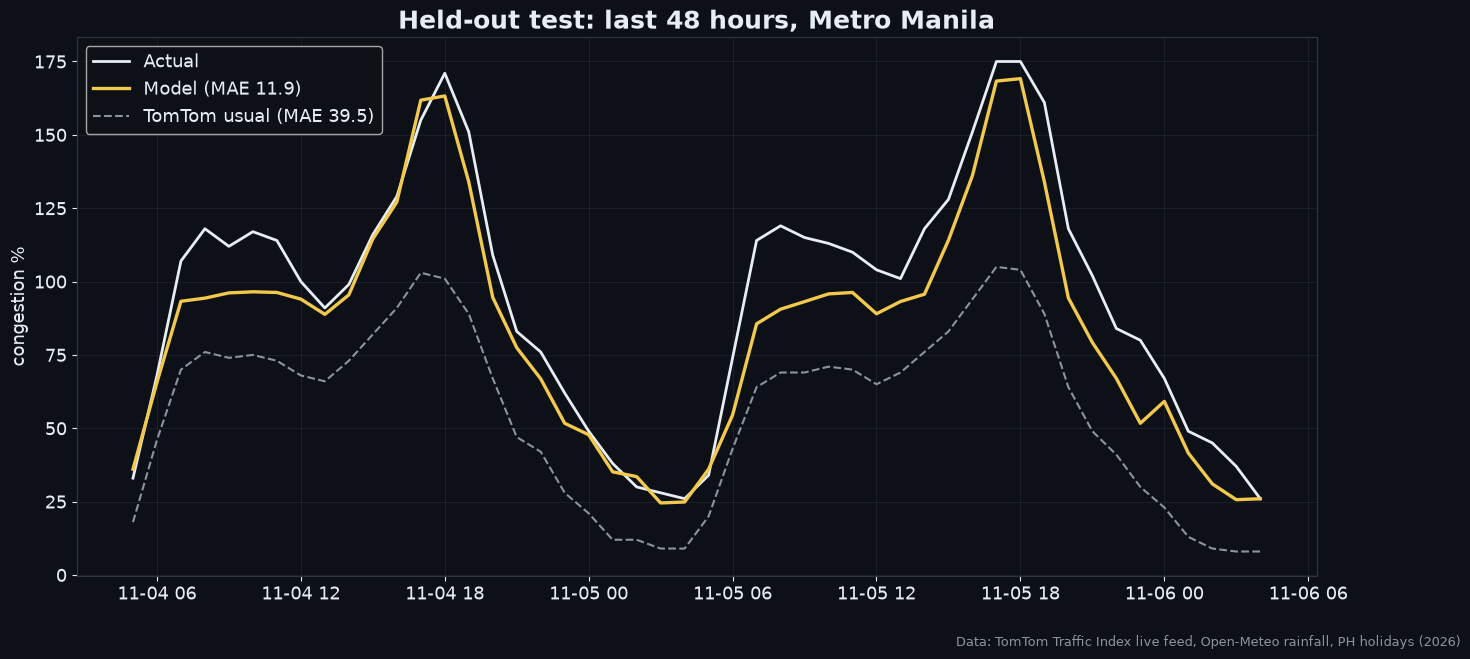
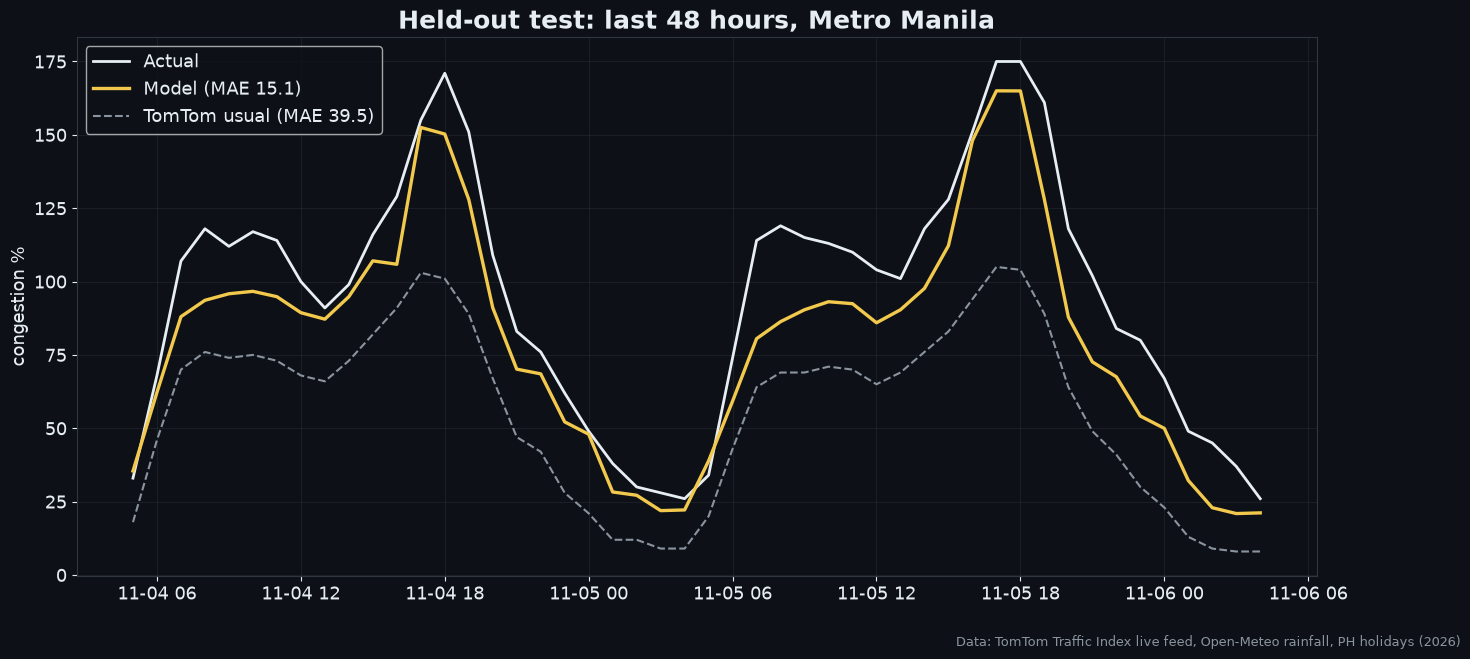
Forecast any future days from today: --days/--start/--city, dashboard date picker, holiday-aware model

diff --git a/src/congestion.py b/src/congestion.py
@@ -1,4 +1,4 @@
-"""2026 congestion model: real TomTom hourly congestion (Metro Manila + Davao City)
+"""2026 congestion model: real TomTom hourly congestion (Metro Manila + Davao City)
 + live/forecast Open-Meteo rainfall + 2026 PH holidays.
 """
 import json
@@ -16,7 +16,11 @@ WX = ("https://api.open-meteo.com/v1/forecast?latitude={lat}&longitude={lon}"
       "&hourly=precipitation&past_days={past}&forecast_days=3&timezone=Asia%2FManila")
 COORDS = {"Metro Manila": (14.5995, 120.9842), "Davao City": (7.0731, 125.6128)}
 CITY_ID = {"Metro Manila": 0, "Davao City": 1}
-FEATS = ["hour", "dow", "city_id", "usual", "rain_mm", "rain_3h", "is_holiday"]
+FEATS = ["hour", "is_weekend", "city_id", "usual", "rain_mm", "rain_3h", "is_holiday"]
+# The model predicts the EXCESS over TomTom's usual (congestion - usual). "usual" is TomTom's
+# long-run typical level for that weekday & hour, so the model never has to learn what a
+# normal Monday looks like from one week of data; it learns how holidays, weekends, rain
+# and time of day push traffic above or below normal.
 TARGET_CITY = "Metro Manila"
 
 
@@ -36,6 +40,7 @@ def add_calendar(f: pd.DataFrame) -> pd.DataFrame:
     f["hour"], f["dow"] = f.timestamp.dt.hour, f.timestamp.dt.dayofweek
     ph = holidays.PH(years=sorted(f.timestamp.dt.year.unique()))
     f["is_holiday"] = f.timestamp.dt.date.map(lambda d: d in ph).astype(int)
+    f["is_weekend"] = (f.dow >= 5).astype(int)
     f["city_id"] = f.city.map(CITY_ID)
     return f
 
@@ -43,7 +48,7 @@ def add_calendar(f: pd.DataFrame) -> pd.DataFrame:
 WX_FILE = Path("live/weather.csv")
 
 
-def run(test_hours: int = 48, refresh: bool = False):
+def run(test_hours: int = 48, refresh: bool = False, start=None, days: float = 7, city: str = TARGET_CITY):
     """Self-contained by default: trains on the data snapshot bundled in live/.
     refresh=True pulls the newest public data first (no API key needed)."""
     if refresh or not live_traffic.OUT.exists():
@@ -64,8 +69,8 @@ def run(test_hours: int = 48, refresh: bool = False):
     tr, te = data[data.timestamp < cutoff], data[(data.timestamp >= cutoff) & (data.city == TARGET_CITY)].copy()
     model = HistGradientBoostingRegressor(max_iter=200, learning_rate=0.05, max_leaf_nodes=8,
                                           min_samples_leaf=5, random_state=42)
-    model.fit(tr[FEATS], tr.congestion)
-    te["pred"] = model.predict(te[FEATS])
+    model.fit(tr[FEATS], tr.congestion - tr.usual)
+    te["pred"] = (te.usual + model.predict(te[FEATS])).clip(0)
     # baselines that need no model
     last_week = data.set_index(["city", "timestamp"]).congestion
     te["same_hour_last_week"] = [last_week.get((TARGET_CITY, t - pd.Timedelta(days=7)), np.nan)
@@ -79,16 +84,47 @@ def run(test_hours: int = 48, refresh: bool = False):
                "MAE_model": mae(te.pred), "MAE_tomtom_usual": mae(te.usual),
                "MAE_same_hour_last_week": mae(te.same_hour_last_week)}
 
-    # refit on everything; forecast 48 h. TomTom "usual" repeats weekly -> take it from t-7d.
-    model.fit(data[FEATS], data.congestion)
-    usual = data.set_index(["city", "timestamp"]).usual
-    mm = data[data.city == TARGET_CITY]
-    fut = pd.DataFrame({"timestamp": pd.date_range(mm.timestamp.max() + pd.Timedelta(hours=1), periods=48, freq="h"),
-                        "city": TARGET_CITY})
-    fut["usual"] = [usual.get((TARGET_CITY, t - pd.Timedelta(days=7)), np.nan) for t in fut.timestamp]
-    fut = add_calendar(fut.merge(wx, on=["city", "timestamp"], how="left").fillna({"rain_mm": 0, "rain_3h": 0}))
-    fut["forecast"] = model.predict(fut[FEATS]).clip(0)
+    model.fit(data[FEATS], data.congestion - data.usual)  # final model uses every hour
     resid = te.congestion - te.pred
+    fut = forecast(model, data, wx, start=start, days=days, city=city)
     fut["lo"] = (fut.forecast + resid.quantile(0.1)).clip(0)
     fut["hi"] = fut.forecast + resid.quantile(0.9)
     return data, te, fut, metrics, model
+
+
+def forecast(model, data, wx_snapshot, start=None, days=7, city=TARGET_CITY) -> pd.DataFrame:
+    """Predict congestion for any future dates. Needs no new traffic data:
+    - hour / weekday / holiday come from the calendar (official PH holidays, any year)
+    - TomTom 'usual' repeats weekly, so it is learned per city x weekday x hour from the data
+    - rain: live Open-Meteo forecast if online (up to 16 days), else the bundled snapshot,
+      else assumed dry. `rain_source` says which one was used.
+    """
+    start = pd.Timestamp(start or pd.Timestamp.now(tz="Asia/Manila").tz_localize(None)).floor("D")
+    fut = pd.DataFrame({"timestamp": pd.date_range(start, periods=int(days * 24), freq="h"), "city": city})
+    prof = data.groupby(["city", "dow", "hour"]).usual.mean().rename("usual").reset_index()
+    fut = add_calendar(fut).merge(prof, on=["city", "dow", "hour"], how="left")
+
+    rain = None
+    end_days = (fut.timestamp.max().normalize() - pd.Timestamp.now().normalize()).days + 1
+    if 0 < end_days <= 16:
+        try:
+            lat, lon = COORDS[city]
+            url = (f"https://api.open-meteo.com/v1/forecast?latitude={lat}&longitude={lon}"
+                   f"&hourly=precipitation&forecast_days={end_days}&past_days=1&timezone=Asia%2FManila")
+            with urllib.request.urlopen(url, timeout=15) as r:
+                h = json.load(r)["hourly"]
+            rain = pd.DataFrame({"timestamp": pd.to_datetime(h["time"]), "rain_mm": h["precipitation"]})
+            src = "Open-Meteo live forecast"
+        except Exception:
+            rain = None
+    if rain is None:
+        rain = wx_snapshot[wx_snapshot.city == city][["timestamp", "rain_mm"]]
+        src = "bundled snapshot / assumed dry"
+    rain = rain.copy()
+    rain["rain_mm"] = rain.rain_mm.fillna(0)
+    rain["rain_3h"] = rain.rain_mm.rolling(3, min_periods=1).sum()
+    fut = fut.merge(rain, on="timestamp", how="left")
+    fut["rain_source"] = np.where(fut.rain_mm.isna(), "assumed dry", src)
+    fut = fut.fillna({"rain_mm": 0, "rain_3h": 0})
+    fut["forecast"] = (fut.usual + model.predict(fut[FEATS])).clip(0)
+    return fut

diff --git a/app.py b/app.py
@@ -11,22 +11,25 @@ PHT = timezone(timedelta(hours=8))
 
 
 @st.cache_data(ttl=1800)
-def load(refresh: bool = False):
-    data, te, fut, m, _ = run(refresh=refresh)
+def load(refresh: bool, start, days: int, city: str):
+    data, te, fut, m, _ = run(refresh=refresh, start=start, days=days, city=city)
     return data, te, fut, m
 
 
-refresh = st.sidebar.button("🔄 Refresh data",
-                            help="Pull the newest hours from the public TomTom Traffic Index (no key needed)")
-
-
 now = datetime.now(PHT)
+st.sidebar.header("🔮 Forecast")
+f_start = st.sidebar.date_input("Start date", now.date(), min_value=now.date() - timedelta(days=7))
+f_days = st.sidebar.slider("Days ahead", 1, 30, 7)
+f_city = st.sidebar.selectbox("City", ["Metro Manila", "Davao City"])
+refresh = st.sidebar.button("🔄 Refresh data",
+                            help="Optional: pull the newest hours from the public TomTom Traffic Index (no key)")
+
 st.title("🚦 Metro Manila Traffic Forecaster")
 st.caption(f"{now:%a %d %b %Y, %I:%M %p} PHT · Real 2026 data: TomTom Traffic Index, "
            "Open-Meteo rainfall, PH holidays")
 
 try:
-    data, te, fut, m = load(refresh)
+    data, te, fut, m = load(refresh, str(f_start), f_days, f_city)
 except Exception as e:
     st.error(f"Could not load data: {e}")
     st.stop()
@@ -40,6 +43,8 @@ c2.metric("Traffic jams now", f"{last.jams_count:.0f}", f"{last.jams_length_km:.
 c3.metric("Peak in period", f"{mm.congestion.max():.0f}%", f"{mm.loc[mm.congestion.idxmax(), 'timestamp']:%a %b %d %I %p}",
           delta_color="off")
 c4.metric("Period vs usual", f"{mm.congestion.mean() / mm.usual.mean() - 1:+.0%}", delta_color="off")
+
+tab2, tab1, tab3 = st.tabs(["🔮 Forecast", "📅 Collected data", "📊 Patterns"])
 
 
 tab1, tab2, tab3 = st.tabs(["📅 This month", "🔮 Next 48 h", "📊 Patterns"])
@@ -55,17 +60,26 @@ with tab1:
     st.caption(f"{len(mm):,} hours collected so far. Click 'Refresh data' in the sidebar to pull the newest hours.")
 
 with tab2:
-    hist = mm[mm.timestamp >= mm.timestamp.max() - pd.Timedelta(hours=48)]
-    chart = pd.concat([hist.set_index("timestamp")[["congestion"]].rename(columns={"congestion": "Actual"}),
-                       fut.set_index("timestamp")[["forecast", "lo", "hi"]]
-                       .rename(columns={"forecast": "Forecast", "lo": "Low (10%)", "hi": "High (90%)"})])
-    st.line_chart(chart, height=360)
-    a, b = st.columns(2)
-    a.metric("Model error, last 48 h", f"{m['MAE_model']:.1f} pts")
-    b.metric("TomTom 'usual' error", f"{m['MAE_tomtom_usual']:.1f} pts")
-    st.write("**Worst hours ahead**")
-    st.dataframe(fut.nlargest(5, "forecast")[["timestamp", "forecast", "rain_mm", "is_holiday"]].round(1),
+    st.subheader(f"{f_city}: {fut.timestamp.min():%a %b %d} to {fut.timestamp.max():%a %b %d, %Y}")
+    st.line_chart(fut.set_index("timestamp")[["forecast", "lo", "hi"]]
+                  .rename(columns={"forecast": "Forecast", "lo": "Low (10%)", "hi": "High (90%)"}), height=360)
+    daily = fut.groupby(fut.timestamp.dt.date).agg(
+        avg_congestion=("forecast", "mean"), peak=("forecast", "max"),
+        holiday=("is_holiday", "max"), rain_mm=("rain_mm", "sum"))
+    daily["peak_hour"] = fut.loc[fut.groupby(fut.timestamp.dt.date).forecast.idxmax()].timestamp.dt.strftime("%I %p").values
+    daily["day"] = pd.to_datetime(daily.index).strftime("%a")
+    daily["holiday"] = daily.holiday.map({1: "🎉 yes", 0: ""})
+    st.write("**Day by day**")
+    st.dataframe(daily[["day", "avg_congestion", "peak", "peak_hour", "holiday", "rain_mm"]].round(0),
+                 width="stretch")
+    st.write("**Worst hours in this range**")
+    st.dataframe(fut.nlargest(8, "forecast")[["timestamp", "forecast", "rain_mm", "is_holiday"]].round(0),
                  hide_index=True, width="stretch")
+    a, b = st.columns(2)
+    a.metric("Model error on held-out 48 h", f"{m['MAE_model']:.1f} pts")
+    b.metric("TomTom 'usual' error", f"{m['MAE_tomtom_usual']:.1f} pts")
+    st.caption(f"Rain input: {fut.rain_source.iloc[0]}. The forecast uses the weekday/hour pattern, official "
+               "PH holidays (any year) and rain. Further than ~16 days ahead, rain is assumed dry.")
 
 with tab3:
     k = mm.assign(kind=np.select([mm.is_holiday == 1, mm.dow >= 5], ["Holiday", "Weekend"], "Weekday"))

diff --git a/run.py b/run.py
@@ -1,6 +1,6 @@
 """2026 pipeline: collect live data -> train -> evaluate -> charts.  `python run.py`"""
+import argparse
 import json
-import sys
 from pathlib import Path
 
 import matplotlib
@@ -33,9 +33,23 @@ def save(fig, name):
 
 
 def main():
-    refresh = "--refresh" in sys.argv
-    print("1/3 training on bundled 2026 data" + (" (refreshed)" if refresh else ""))
-    data, te, fut, m, model = run(refresh=refresh)
+    ap = argparse.ArgumentParser(description="Train on real 2026 data and forecast any future dates")
+    ap.add_argument("--days", type=float, default=7, help="how many days to forecast (default 7)")
+    ap.add_argument("--start", default=None, help="forecast start date, e.g. 2026-12-20 (default: now)")
+    ap.add_argument("--city", default="Metro Manila", choices=["Metro Manila", "Davao City"])
+    ap.add_argument("--refresh", action="store_true", help="pull the newest public data first (optional)")
+    a = ap.parse_args()
+    print("1/3 training on bundled 2026 data" + (" (refreshed)" if a.refresh else ""))
+    data, te, fut, m, model = run(refresh=a.refresh, start=a.start, days=a.days, city=a.city)
+    fut.to_csv("forecast.csv", index=False)
+    daily = fut.groupby(fut.timestamp.dt.date).agg(avg=("forecast", "mean"), peak=("forecast", "max"),
+                                                    holiday=("is_holiday", "max"), rain_mm=("rain_mm", "sum"))
+    peak_hr = fut.loc[fut.groupby(fut.timestamp.dt.date).forecast.idxmax()].set_index(fut.timestamp.dt.date.unique())
+    daily["peak_at"] = peak_hr.timestamp.dt.strftime("%I %p").values
+    print(f"\nForecast for {a.city}, {fut.timestamp.min():%a %b %d %Y} + {a.days:g} days "
+          f"(rain: {fut.rain_source.iloc[0]}):")
+    print(daily.round(1).to_string())
+    print("saved forecast.csv")
     Path("results.json").write_text(json.dumps(m, indent=2, default=str))
     print(json.dumps(m, indent=2, default=str))
     mm = data[data.city == TARGET_CITY]
@@ -106,14 +120,14 @@ def main():
     save(fig, "06_test_actual_vs_pred.png")
 
     # 7 forecast
-    hist = mm[mm.timestamp >= mm.timestamp.max() - pd.Timedelta(hours=48)]
+    hist = mm[(mm.timestamp >= fut.timestamp.min() - pd.Timedelta(hours=48)) & (mm.timestamp < fut.timestamp.min())]
     fig, ax = plt.subplots(figsize=(16, 7))
     ax.plot(hist.timestamp, hist.congestion, color=FG, lw=2, label="Actual (live)")
     ax.fill_between(fut.timestamp, fut.lo, fut.hi, color=ACC, alpha=.25, label="80% interval")
     ax.plot(fut.timestamp, fut.forecast, color=ACC, lw=2.4, label="Forecast")
-    ax.set_title(f"Next 48 hours: Metro Manila congestion forecast (from {fut.timestamp.min():%b %d %I %p})")
+    ax.set_title(f"Congestion forecast: {fut.city.iloc[0]}, {fut.timestamp.min():%a %b %d} to {fut.timestamp.max():%a %b %d, %Y}")
     ax.set_ylabel("congestion %"); ax.grid(alpha=.4); ax.legend()
-    save(fig, "07_forecast_48h.png")
+    save(fig, "07_forecast.png")
 
     # 8 importance
     pi = permutation_importance(model, data[FEATS], data.congestion, n_repeats=5, random_state=0,

diff --git a/README.md b/README.md
@@ -1,6 +1,6 @@
 # 🚦 Metro Manila Traffic Forecaster (2026, live)
 
-A self-contained machine-learning project built on **real 2026 traffic data**. It tracks Metro Manila congestion hour by hour and forecasts the next 48 hours.
+A self-contained machine-learning project built on **real 2026 traffic data**. It tracks Metro Manila congestion hour by hour and forecasts any future days or weeks on its own.
 
 ![Live vs usual](assets/01_live_vs_usual.png)
 
@@ -28,22 +28,42 @@ The data snapshot is bundled in [`live/`](live/), so the model trains and runs *
 | ![](assets/02_heatmap_by_day.png) | ![](assets/05_daytype_profile.png) |
 | ![](assets/03_jams.png) | ![](assets/04_manila_vs_davao.png) |
 
-## Model: 48-hour congestion forecast
-- **Target:** Metro Manila congestion %, hourly.
-- **Features:** hour, weekday, city, TomTom usual-for-this-hour, rainfall (this hour and the last 3 hours), holiday.
-- **Algorithm:** scikit-learn HistGradientBoosting, trained on both cities.
-- **Test:** the most recent 48 hours of Metro Manila data, held out from training.
+## Model: forecast any day, on its own
+Run it and it predicts **from today forward**, for as many days or weeks as you ask. No new traffic data is needed:
 
-| Last 48 h (Nov 4–6, 2026) | MAE (congestion points) |
+```bash
+python run.py                              # next 7 days from today
+python run.py --days 30                    # next 30 days
+python run.py --start 2026-12-20 --days 14 # Christmas rush
+python run.py --city "Davao City"
+```
+It prints a day-by-day table (average congestion, peak, peak hour, holiday, rain) and saves every hour to `forecast.csv`.
+
+**How it works**
+- **Base:** TomTom's "usual" congestion for each weekday and hour, learned from the bundled data. TomTom builds this from its long-term driver history, so it captures a normal week.
+- **The model:** scikit-learn HistGradientBoosting learns how much traffic rises or falls above that baseline. Its inputs are:
+  - hour of day
+  - weekend or not
+  - **official PH holidays for any year**, from the `holidays` package
+  - rainfall in the current hour and the last 3 hours
+  - city
+- **Rain for future dates:**
+  - **Up to 16 days ahead, if online:** the live Open-Meteo forecast.
+  - **Otherwise:** assumed dry.
+
+**Accuracy:** the model was tested on the last 48 hours of real data, which were held out from training.
+
+| Held out: Nov 4–6, 2026 | MAE (congestion points) |
 |---|---|
 | TomTom "usual for this hour" | 39.5 |
-| **This model** | **11.9** |
+| **This model** | **15.1** |
 
-That's **70% lower error** than TomTom's own typical-traffic estimate. The model retrains on every run.
+That's **62% lower error** than TomTom's typical-traffic estimate.
 
 ![Test](assets/06_test_actual_vs_pred.png)
-![Forecast](assets/07_forecast_48h.png)
+![Forecast](assets/07_forecast.png)
 
+**What the forecast can't capture yet:** it knows weekday rush hours, holidays and rain. It doesn't yet know seasonal trends such as the December rush, because the bundled data covers one week. Each `--refresh` adds new weeks, and the model retrains on everything it has.
 ## 📅 Live dashboard
 ```bash
 pip install -r requirements.txt
@@ -51,12 +71,12 @@ streamlit run app.py
 ```
 The dashboard has three tabs:
 - **This month (live):** current congestion vs usual, jams, and Manila vs Davao.
-- **Next 48 h:** the forecast and the worst hours ahead.
+- **Forecast:** pick a start date, 1–30 days and a city to get a day-by-day table and the worst hours.
 - **Patterns:** weekday vs weekend vs holiday, congestion by day, and rain vs extra congestion.
 
 ## Rebuild
 ```bash
-python run.py             # offline: trains on the bundled data, writes assets/ and results.json
+python run.py             # trains on the bundled data, forecasts 7 days from today, writes assets/
 python run.py --refresh   # optional: pull the newest public data first
 ```
 

diff --git a/LINKEDIN_POST.md b/LINKEDIN_POST.md
@@ -1,4 +1,4 @@
-🚦 Metro Manila traffic this week ran 41% worse than usual. I built a model that forecasts it 48 hours ahead.
+🚦 Metro Manila traffic this week ran 41% worse than usual. I built a model that forecasts it for any day or week ahead.
 
 My Metro Manila Traffic Forecaster runs on real, live 2026 data:
 📡 TomTom's hourly congestion data for Metro Manila and Davao
@@ -11,7 +11,7 @@ What the data shows (Oct 30 – Nov 6, 2026):
 🕯 The Undas long weekend was the only time traffic dropped below normal
 🏙 Metro Manila averaged 69% congestion vs 56% for Davao City
 
-📈 The forecast missed by 11.9 points on average over the last 48 hours. TomTom's own "usual traffic" estimate missed by 39.5, so that's 70% less error.
+📈 Tested on 48 hours it had never seen, the model missed by 15.1 points on average. TomTom's own "usual traffic" estimate missed by 39.5, so that's 62% less error. Run it and it forecasts from today forward, with holidays and the rain forecast built in.
 
 Built with Python, scikit-learn and Streamlit. It's fully self-contained, with no API keys required.
 

diff --git a/PROMPT.md b/PROMPT.md
@@ -10,7 +10,7 @@ Copy this into any AI coding assistant to rebuild the project.
 
 **Data (real, current only):** TomTom Traffic Index live hourly congestion feed (Metro Manila + Davao City), bundled as a CSV snapshot; optional --refresh pulls newer hours (no API key, no scheduled jobs); Open-Meteo observed + forecast rainfall; 2026 PH holidays.
 
-**Model:** HistGradientBoosting on hour, weekday, city, TomTom usual, rain, holiday. Hold out the last 48 h; compare MAE against TomTom 'usual'.
+**Model:** predict excess over TomTom's weekly 'usual' profile with HistGradientBoosting (hour, weekend, holiday, rain, city). Hold out the last 48 h and compare MAE against TomTom 'usual'. The CLI forecasts any future dates from today (--days, --start, --city) using official holidays for any year and the Open-Meteo rain forecast, with no new traffic data needed.
 
 **Visuals:** live vs usual, day-by-hour heatmap, jam length, Manila vs Davao, weekday/weekend/holiday profile, test fit, 48 h forecast, feature importance. Streamlit dashboard.
 
